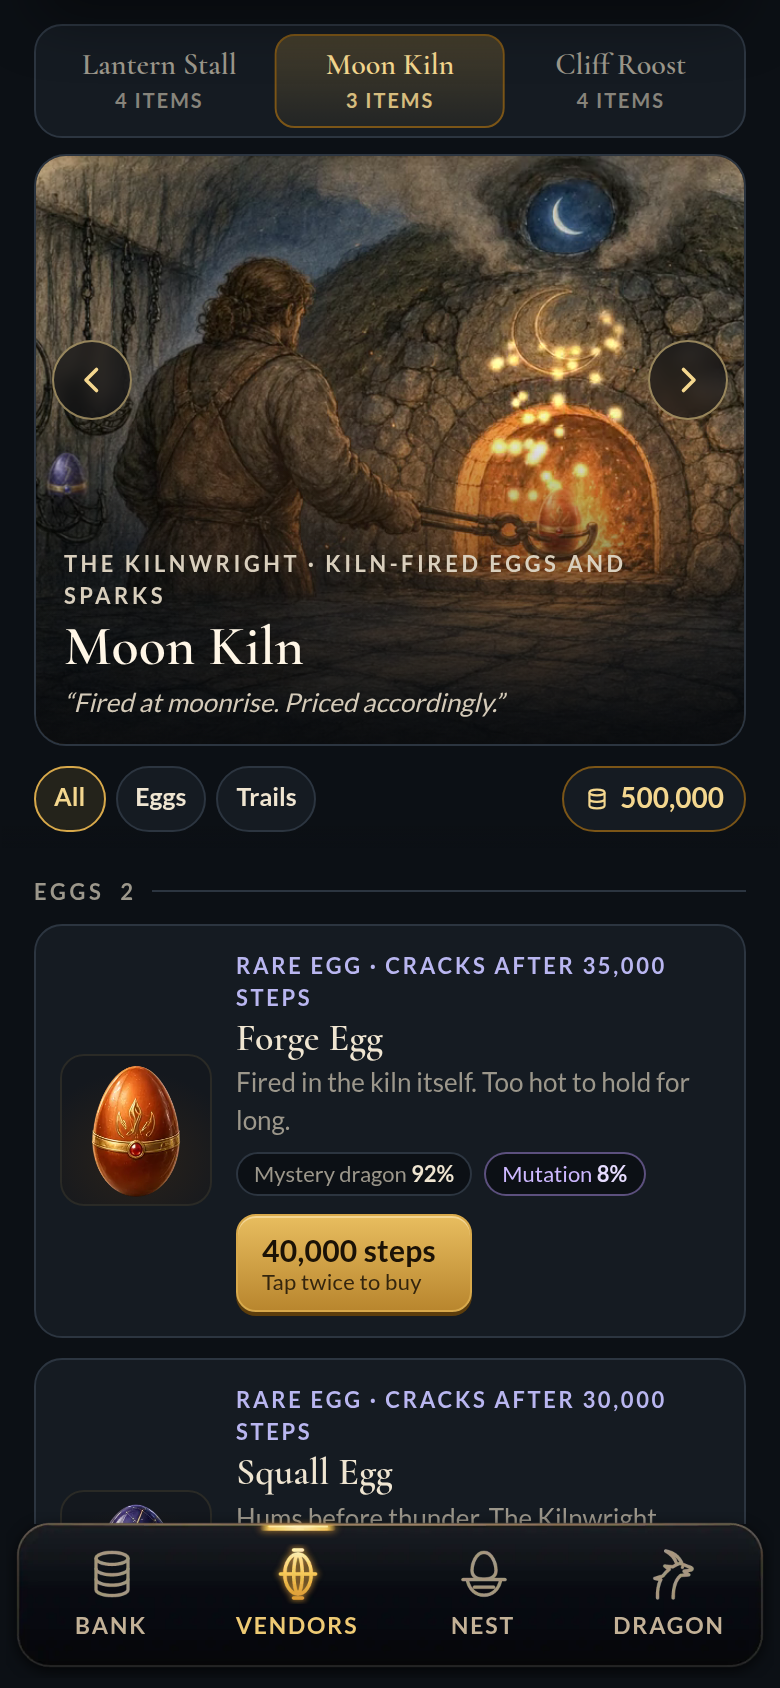
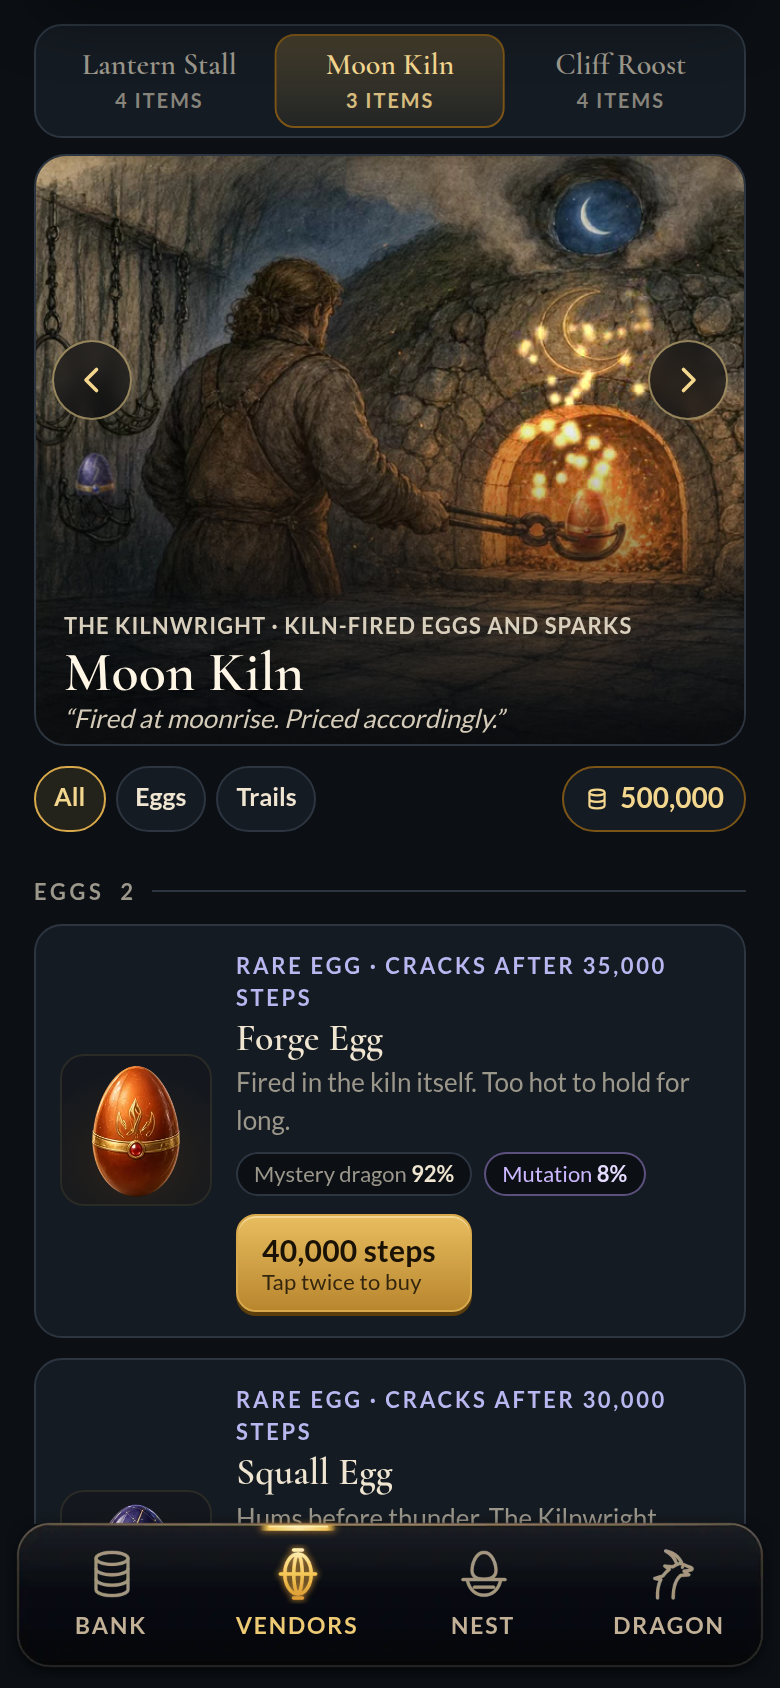
fix: bring the Kiln cradle into frame and clear the vendor titles
Crop the Kiln video to 22% 50% so the Squall egg and cradle stay inside the store box, and drop only that scene's keeper line below the Forge egg. Soften the Roost title fade, and keep its keeper line on one line so the grey egg is not covered at 375px.

Changed region(s): [[0.0308, 0.0924, 0.9538, 0.4313]]

diff --git a/index.html b/index.html
@@ -92,8 +92,14 @@ button:focus-visible,input:focus-visible,a:focus-visible{outline:2px solid var(-
 .art{position:relative;aspect-ratio:6/5;max-width:100%;border-radius:16px;overflow:hidden;border:1px solid var(--line);box-shadow:inset 0 0 0 1px rgba(216,169,75,.18);background:#0b0d10}
 .art > video{display:block;width:100%;height:100%;object-fit:cover;object-position:50% 50%}
 .art[data-vendor="stall"] > video{object-position:20% 50%}
-.art[data-vendor="kiln"] > video{object-position:30% 50%}
+.art[data-vendor="kiln"] > video{object-position:22% 50%}
 .art[data-vendor="roost"] > video{object-position:5% 50%}
+.art[data-vendor="kiln"] .vtitle{bottom:4px}
+.art[data-vendor="kiln"] .vtitle .eyebrow{letter-spacing:.05em;line-height:1.15}
+.art[data-vendor="kiln"] .vtitle h2{margin:2px 0 0;line-height:1}
+.art[data-vendor="roost"] .vtitle{bottom:4px}
+.art[data-vendor="roost"] .vtitle .eyebrow{letter-spacing:.1em}
+.art[data-vendor="roost"] .shade{background:linear-gradient(180deg,transparent 22%,rgba(8,10,13,.16) 52%,rgba(8,10,13,.48) 78%,rgba(8,10,13,.82))}
 .scene.is-locked .art > video{filter:grayscale(.65) brightness(.55)}
 .art .shade{position:absolute;inset:auto 0 0 0;height:58%;background:linear-gradient(180deg,transparent,rgba(8,10,13,.92));pointer-events:none}
 .vtitle{position:absolute;left:14px;right:14px;bottom:12px;pointer-events:none}
